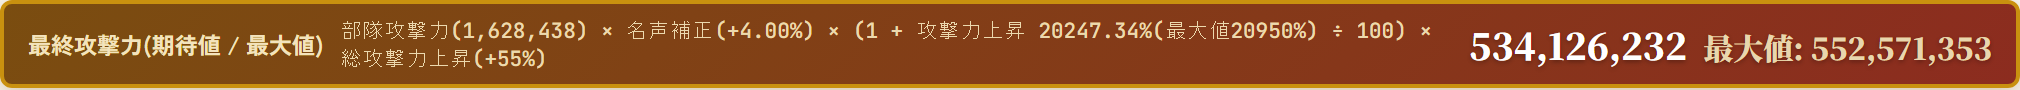
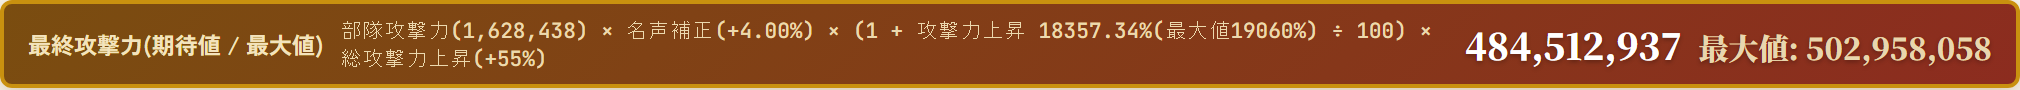
使い方記事: 模倣スキルを瞬刻無影LV10に変更、チェックボックスの説明から具体例を削除
模倣に摩利支天ノ法(発動率70%)を使っていたため、小隊2を兵法振りにした
副作用で実発動率が94.45%→100%に変わり、3章の赤枠の説明に「兵法振りで
青枠に変わった」という但し書きが必要になっていた。瞬刻無影LV10は発動率
100%なのでステ振りの影響を受けず、3章は編成の話だけで完結する。
模倣値は4200×1.1=4620。

チェックボックスの節から対応カードの一覧表を削除し、仕組みだけの説明に
変更(対応カードが増えるたびに記事を直すことになるため)。出る条件・
入れるべきか・列をまたぐかの3点は残した。

数値は瞬刻無影版で測り直し:
・小隊2 攻撃振り 発動率ボーナス+24.02% / 最終4億8048万
・小隊2 兵法振り 発動率ボーナス+38.27% / 最終4億8451万(最大5億295万)
あわせて「発動率ボーナスが効くのは100%に足りていないスキルだけ」を追記。

Changed region(s): [[0.7173, 0.3556, 0.998, 0.7333], [0.499, 0.2444, 0.5614, 0.4222], [0.5926, 0.2444, 0.655, 0.4222]]

diff --git a/blog-attack-simulator-guide.html b/blog-attack-simulator-guide.html
@@ -75,39 +75,18 @@
 
       <h3>条件を満たしたときだけ出るチェックボックス</h3>
 
-      <p>入力の内容によっては、欄の下に小さなチェックボックスが現れます。<strong>常に出るものではなく、該当したときだけ出ます。持っているなら入れてください。</strong>持っていない場合は触らなければそのままです。</p>
+      <p>入力の内容によっては、欄の下に小さなチェックボックスが現れます。<strong>常に出るものではなく、条件を満たしたときだけ出ます。</strong>対象のカードを持っているなら入れてください。持っていないなら触らなくて構いません。</p>
 
-      <p><strong>1つめは兵士欄の下です。</strong>選んだ兵種の能力を上げるカードを持っている人向けのチェックで、兵種ごとに出るカードが決まっています。</p>
+      <p>出るのは2か所です。</p>
 
-      <div class="table-scroll">
-        <table class="article-table">
-          <thead><tr><th>選んだ兵士</th><th>出るチェック</th><th>効果</th></tr></thead>
-          <tbody>
-            <tr><td>焙烙火矢</td><td>藤林長門守所持</td><td>兵攻+1/兵防+1</td></tr>
-            <tr><td>騎馬鉄砲</td><td>国友善兵衛所持</td><td>兵攻+1/兵防+1</td></tr>
-            <tr><td>鉄砲足軽</td><td>芝辻清右衛門所持</td><td>兵攻+1/兵防+1</td></tr>
-            <tr><td>穴太衆・大筒兵</td><td>三浦按針所持</td><td>兵攻+1/兵防+1</td></tr>
-          </tbody>
-        </table>
-      </div>
+      <ul>
+        <li><strong>兵士欄の下</strong> … 選んだ兵種を強化するカードがある場合に出ます。兵種ごとに対応するカードが決まっていて、選び直すと出たり消えたりします</li>
+        <li><strong>武将名欄の下</strong> … 特定の武将を強化するカードがある場合に出ます。チェックを入れると、そのカードの突破ランクを選ぶ欄が続けて出ることがあります</li>
+      </ul>
 
-      <p>カードを持っているかどうかは部隊とは関係のない話なので、<strong>1つの列でチェックを入れると、同じ兵種を選んでいる他の列も自動で同じ状態になります</strong>。4か所を押して回る必要はありません。</p>
+      <p>兵士欄のほうは「そのカードを持っているかどうか」という部隊とは無関係な事実なので、<strong>1つの列でチェックを入れると同じ兵種の他の列も自動で同じ状態になります</strong>。武将名欄のほうは列ごとの設定です。</p>
 
-      <p><strong>2つめは武将名欄の下です。</strong>武将名に<strong>織田信長</strong>または<strong>三郎信長</strong>を入れたときだけ、弥助(No.2430)のチェックが出ます。チェックを入れると弥助側の突破ランクを選ぶ欄が続けて出るので、自分の持っている弥助のランクを選んでください。指揮兵士数が次の分だけ増えます。</p>
-
-      <div class="table-scroll">
-        <table class="article-table">
-          <thead><tr><th>弥助のランク</th><th>指揮兵士数</th></tr></thead>
-          <tbody>
-            <tr><td>限界突破</td><td>+240</td></tr>
-            <tr><td>極限突破+0.5</td><td>+640</td></tr>
-            <tr><td>天限突破+0.5</td><td>+960</td></tr>
-          </tbody>
-        </table>
-      </div>
-
-      <p>こちらは列ごとの設定です。織田信長を2列に入れていても、片方のチェックがもう片方に移ることはありません。<br>
-      どちらのチェックも、下の入力後の画像に実際に出ています。</p>
+      <p>どちらも下の入力後の画像に実際に出ています。</p>
 
       <p>4人分入れて「計算する」を押すと、こうなります。</p>
 
@@ -122,9 +101,11 @@
 
       <p><strong>ステ振り</strong>は列ごとに選べます。上の画像では小隊2の斎藤朝信(2439)だけ兵法振りにしていて、
       兵法値が500から2225まで伸びています。<br>
-      この1人のステ振りを変えるだけで発動率ボーナスが<strong>+24.02%から+38.27%</strong>に上がり、
-      最終攻撃力(期待値)も5億599万から5億3412万に増えました。斎藤朝信自身の攻撃力は下がっているので
-      部隊攻撃力は減りますが、部隊全員のスキルが発動しやすくなる分のほうが大きい、という例です。</p>
+      この1人のステ振りを変えるだけで発動率ボーナスが<strong>+24.02%から+38.27%</strong>に上がります。
+      本人の攻撃力は下がるので部隊攻撃力は減りますが、部隊全員のスキルが発動しやすくなるので、
+      この編成では最終攻撃力(期待値)も4億8048万から4億8451万に増えました。<br>
+      発動率ボーナスが効くのは<strong>発動率が100%に足りていないスキルだけ</strong>です。
+      すでに100%のスキルしか入っていない部隊では、兵法振りにしても発動率の面では何も起きません。</p>
 
       <div class="article-gap3"></div>
     </div>
@@ -181,8 +162,8 @@
       </figure>
 
       <p>スキル名の下の数字が上昇%、その右下に出るのが<strong>実発動率</strong>です。実発動率は、スキル本来の発動率に発動率ボーナスを足した値(上限100%)です。<br>
-      この編成の発動率ボーナスは+38.27%なので、部隊長の天弦ノ威軍は本来の45%に足して83.27%になっています。追加1の摩利支天ノ法は本来70%ですが、足すと100%を超えるため上限の100%です。覇界ノ天虎はもともと100%なので、足しても100%どまりです。<br>
-      小隊1〜3の追加1に入れた摩利支天ノ法は部隊長の初期スキルを模倣するスキルで、その5250%は模倣元(天弦ノ威軍TR5)の4200%を1.25倍した値です。</p>
+      この編成の発動率ボーナスは+38.27%なので、部隊長の天弦ノ威軍は本来の45%に足して83.27%になっています。瞬刻無影と覇界ノ天虎はもともと100%のスキルなので、足しても100%どまりです。<br>
+      小隊1〜3の追加1に入れた瞬刻無影は部隊長の初期スキルを模倣するスキルで、その4620%は模倣元(天弦ノ威軍TR5)の4200%を1.1倍した値です。</p>
 
       <p><strong>上昇%の欄が赤枠になっているのは、その数字が満額では入らないという印です。</strong>条件は2つあり、どちらかに当たると赤くなります。</p>
 
@@ -192,7 +173,7 @@
       </ol>
 
       <p>上の画像で赤枠なのは部隊長の天弦ノ威軍だけです。実発動率が83.27%で、残りの16.73%は発動しないからです。<br>
-      摩利支天ノ法(5250%)と覇界ノ天虎(1000%)が青枠なのは、実発動率が100%で卓越も持たないので、書いてある数字がそのまま入るからです。摩利支天ノ法は本来70%のスキルですが、小隊2を兵法振りにして発動率ボーナスを積んだ結果100%に届き、赤枠から青枠に変わりました。<strong>赤枠を減らすことが、そのまま期待値を最大値に近づけることになります。</strong></p>
+      瞬刻無影(4620%)と覇界ノ天虎(1000%)が青枠なのは、実発動率が100%で卓越も持たないので、書いてある数字がそのまま入るからです。<strong>赤枠を減らすことが、そのまま期待値を最大値に近づけることになります。</strong></p>
 
       <h3>総攻撃力を上げるスキルは別扱い</h3>
 
@@ -222,7 +203,7 @@
         </table>
       </div>
 
-      <p>上の例だと期待値5億3412万に対して最大値5億5257万で、1844万ほど差があります。この差は「発動しない枠がある」分です。赤枠が部隊長の1枠だけなので、差もこの程度で収まっています。<br>
+      <p>上の例だと期待値4億8451万に対して最大値5億295万で、1844万ほど差があります。この差は「発動しない枠がある」分です。赤枠が部隊長の1枠だけなので、差もこの程度で収まっています。<br>
       <strong>発動率100%かつ卓越なし(または卓越確率100%)のスキルだけで組んだときだけ、期待値と最大値が一致します。</strong></p>
 
       <p>どちらを見るべきかは目的によります。1発の上振れを狙うなら最大値、何回も攻撃したときの平均を知りたいなら期待値です。</p>
